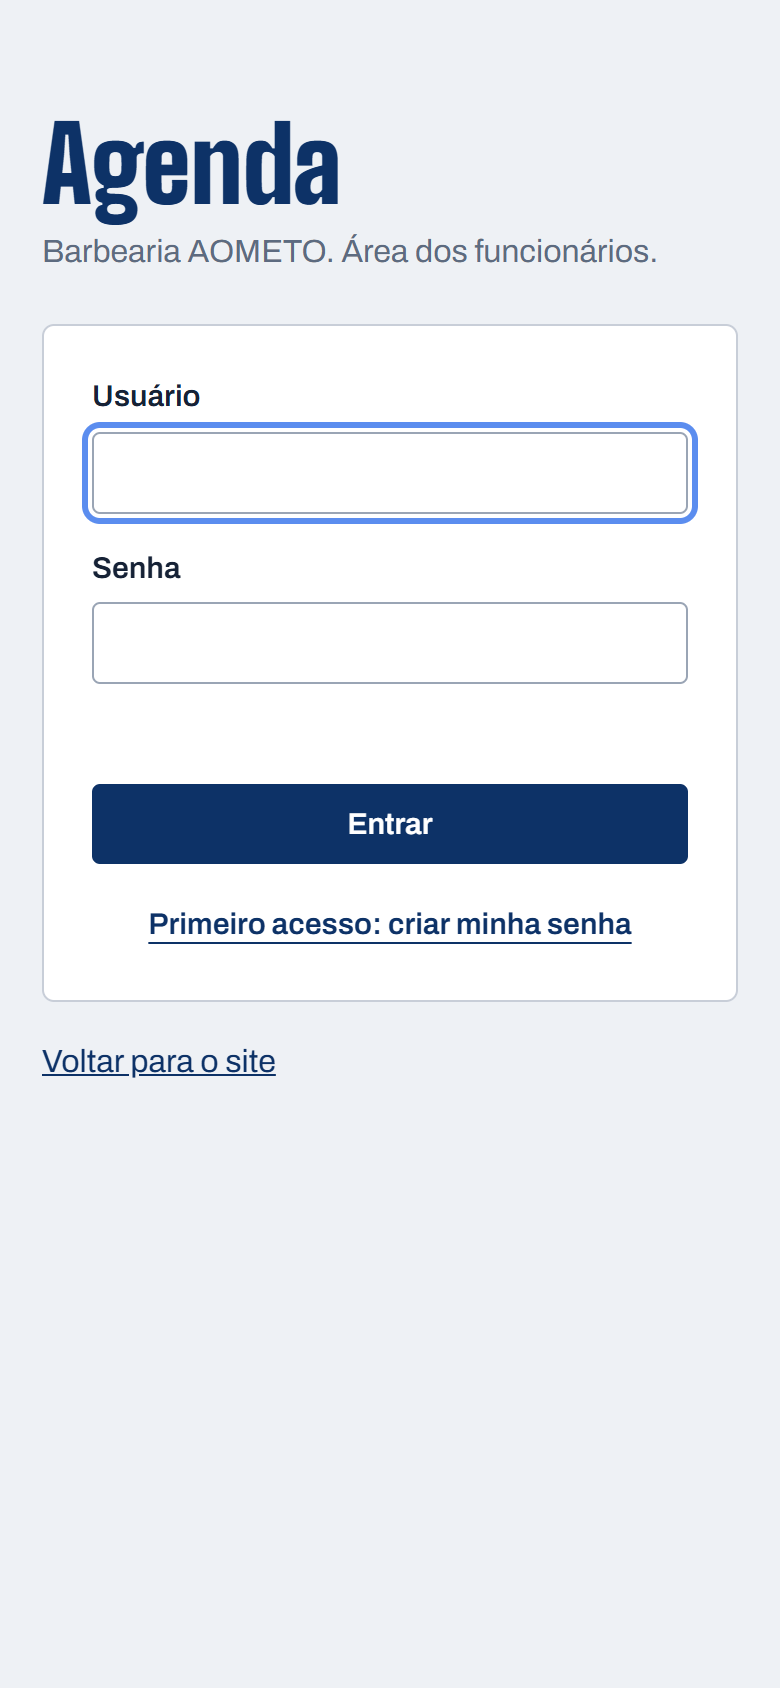
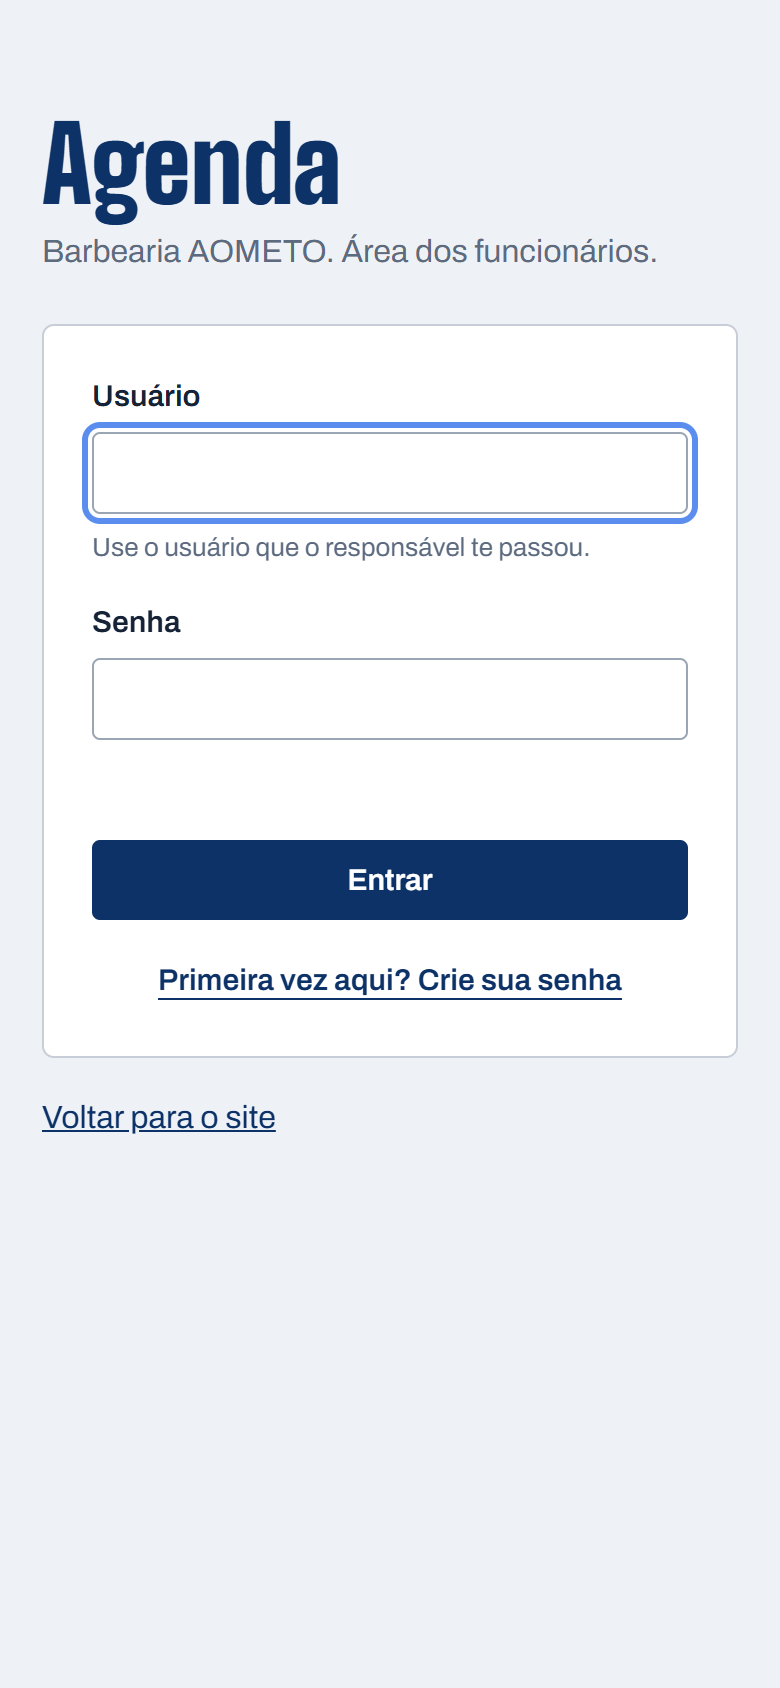
Textos mais claros no site e no painel (revisão de clareza)
Claude-Session: https://claude.ai/code/session_01786Bh4xpB8iKPeZztnvgCn

diff --git a/index.html b/index.html
@@ -4,7 +4,7 @@
 <meta charset="utf-8">
 <meta name="viewport" content="width=device-width, initial-scale=1">
 <title>Barbearia AOMETO | Clube dos Oficiais, Palmas</title>
-<meta name="description" content="Barbearia do clube da AOMETO, em Palmas. Corte, barba e plano mensal. Marque seu horário pelo WhatsApp.">
+<meta name="description" content="Barbearia do clube da AOMETO, em Palmas. Corte, barba e plano mensal. Marque seu horário pelo site.">
 <meta name="theme-color" content="#0d3267">
 <link rel="preconnect" href="https://fonts.googleapis.com">
 <link rel="preconnect" href="https://fonts.gstatic.com" crossorigin>
@@ -227,16 +227,18 @@ footer a{color:#fff}
       <form id="form" novalidate>
         <label>Seu nome<input id="nome" autocomplete="name" placeholder="Como devemos te chamar"></label>
         <label>Seu WhatsApp<input id="telefone" type="tel" inputmode="tel" autocomplete="tel" placeholder="(63) 99999-9999"></label>
+        <p class="alerta" id="erro-dados" role="alert"></p>
         <label>Serviço<select id="servico"></select></label>
         <label>Barbeiro<select id="barbeiro"></select></label>
         <label>Dia<input type="date" id="dia"></label>
         <div>
-          <p class="rotulo">Horário <small>os riscados já estão ocupados</small></p>
+          <p class="rotulo">Horário <small>riscado = ocupado ou já passou</small></p>
           <div class="horas" id="horas" role="group" aria-label="Horários livres"></div>
           <input type="hidden" id="hora">
+          <p class="alerta" id="aviso-dia" role="alert" style="margin-top:8px"></p>
         </div>
         <label>Observação <small>opcional</small><textarea id="obs" rows="2" placeholder="Por exemplo: degradê baixo, barba só alinhar"></textarea></label>
-        <p class="alerta" id="aviso-dia" role="alert"></p>
+        <p class="alerta" id="aviso-envio" role="alert"></p>
         <button class="botao botao-escuro" type="submit" id="reservar">Reservar horário</button>
       </form>
       <div class="feito" id="feito" role="status" tabindex="-1" hidden></div>
@@ -295,8 +297,8 @@ const CONFIG = {
     {nome: "Pezinho", desc: "Contorno e nuca entre um corte e outro.", preco: 10, min: 15},
     {nome: "Sobrancelha", desc: "Alinhamento na navalha.", preco: 10, min: 10}
   ],
-  plano: {valor: 100, beneficios: ["Cortes de cabelo ilimitados no mês", "Vale só para o corte de cabelo; barba e outros serviços são à parte", "Prioridade na agenda", "Pagamento mensal por Pix, sem fidelidade"],
-          obs: "Corte de cabelo à vontade durante o mês. É só marcar o horário."},
+  plano: {valor: 100, beneficios: ["Cortes de cabelo ilimitados no mês", "Pagamento mensal por Pix", "Sem fidelidade"],
+          obs: "Só o corte de cabelo. Barba e outros serviços são cobrados à parte."},
   horarios: {Segunda: ["09:00","19:00"], "Terça": ["09:00","19:00"], Quarta: ["09:00","19:00"], Quinta: ["09:00","19:00"],
              Sexta: ["09:00","19:00"], "Sábado": ["08:00","17:00"], Domingo: null},
   horarioObs: "Em feriados o horário pode mudar. Na dúvida, chame no WhatsApp antes de ir."
@@ -346,7 +348,7 @@ async function rpc(nome, dados) {
   if (!r.ok) throw new Error("rede " + r.status);
   return r.json();
 }
-$("#servico").innerHTML = CONFIG.servicos.map(s => `<option>${s.nome}</option>`).join("") + "<option>Plano mensal</option>";
+$("#servico").innerHTML = CONFIG.servicos.map(s => `<option>${s.nome}</option>`).join("") + "<option>Corte (sou do plano mensal)</option>";
 $("#barbeiro").innerHTML = "<option>Qualquer um</option>" + CONFIG.equipe.map(n => `<option>${n}</option>`).join("");
 const dia = $("#dia"), hora = $("#hora"), aviso = $("#aviso-dia");
 const iso = d => `${d.getFullYear()}-${pad(d.getMonth() + 1)}-${pad(d.getDate())}`;
@@ -357,10 +359,11 @@ async function montarHoras() {
   const box = $("#horas"), n = ++rodada; box.innerHTML = ""; aviso.textContent = ""; hora.value = "";
   if (!dia.value) { box.innerHTML = '<span class="vazio">Escolha o dia para ver os horários livres.</span>'; return; }
   const d = new Date(dia.value + "T12:00"), h = CONFIG.horarios[DIAS[d.getDay()]];
-  if (!h) { aviso.textContent = "A barbearia não abre " + DIAS[d.getDay()].toLowerCase() + ". Escolha outro dia."; return; }
+  if (!h) { aviso.textContent = "Fechado aos " + DIAS[d.getDay()].toLowerCase() + "s. Escolha outro dia."; return; }
   box.innerHTML = '<span class="vazio">Procurando horários livres...</span>';
   let ocupados = [];
-  try { ocupados = await rpc("barbearia_ocupados", {p_dia: dia.value}); } catch (e) { ocupados = []; }
+  let falhou = false;
+  try { ocupados = await rpc("barbearia_ocupados", {p_dia: dia.value}); } catch (e) { ocupados = []; falhou = true; }
   if (n !== rodada) return;
   box.innerHTML = "";
   const escolhido = $("#barbeiro").value, agora = new Date();
@@ -375,7 +378,8 @@ async function montarHoras() {
     b.onclick = () => { hora.value = hh; [...box.children].forEach(c => c.setAttribute("aria-pressed", c === b)); aviso.textContent = ""; };
     box.appendChild(b);
   }
-  if (!livres) aviso.textContent = "Não há horário livre nesse dia. Escolha outro dia" + (escolhido === "Qualquer um" ? "." : " ou outro barbeiro.");
+  if (falhou) aviso.textContent = "Não conseguimos ver os horários ocupados agora. Tente de novo em instantes ou chame no WhatsApp.";
+  else if (!livres) aviso.textContent = "Não há horário livre nesse dia. Escolha outro dia" + (escolhido === "Qualquer um" ? "." : " ou outro barbeiro.");
 }
 dia.addEventListener("change", montarHoras); $("#barbeiro").addEventListener("change", montarHoras); montarHoras();
 
@@ -389,13 +393,14 @@ const ERROS = {
 };
 $("#form").addEventListener("submit", async e => {
   e.preventDefault();
-  const nome = $("#nome").value.trim(), tel = $("#telefone").value.replace(/\D/g, "");
-  if (nome.length < 2) { aviso.textContent = ERROS.nome; $("#nome").focus(); return; }
-  if (tel.length < 10 || tel.length > 13) { aviso.textContent = ERROS.telefone; $("#telefone").focus(); return; }
+  const nome = $("#nome").value.trim(), tel = $("#telefone").value.replace(/\D/g, ""), erroDados = $("#erro-dados"), envio = $("#aviso-envio");
+  erroDados.textContent = ""; envio.textContent = "";
+  if (nome.length < 2) { erroDados.textContent = ERROS.nome; $("#nome").focus(); return; }
+  if (tel.length < 10 || tel.length > 13) { erroDados.textContent = ERROS.telefone; $("#telefone").focus(); return; }
   if (!dia.value) { aviso.textContent = "Escolha o dia."; dia.focus(); return; }
   const d = new Date(dia.value + "T12:00");
-  if (!CONFIG.horarios[DIAS[d.getDay()]]) { aviso.textContent = "A barbearia não abre nesse dia. Escolha outro."; return; }
-  if (!hora.value) { aviso.textContent = "Escolha um dos horários livres."; return; }
+  if (!CONFIG.horarios[DIAS[d.getDay()]]) { aviso.textContent = "Fechado aos " + DIAS[d.getDay()].toLowerCase() + "s. Escolha outro dia."; dia.focus(); return; }
+  if (!hora.value) { aviso.textContent = "Escolha um dos horários livres."; $("#horas").scrollIntoView({block: "center"}); return; }
   const botao = $("#reservar"); botao.disabled = true; botao.textContent = "Reservando..."; aviso.textContent = "";
   let r;
   try {
@@ -404,8 +409,10 @@ $("#form").addEventListener("submit", async e => {
   } catch (err) { r = {ok: false, erro: "rede"}; }
   botao.disabled = false; botao.textContent = "Reservar horário";
   if (!r.ok && r.erro !== "rede") {
-    aviso.textContent = ERROS[r.erro] || "Não foi possível reservar. Tente de novo.";
-    if (r.erro === "ocupado" || r.erro === "horario") montarHoras();
+    const m = ERROS[r.erro] || "Não foi possível reservar. Tente de novo.";
+    if (r.erro === "nome" || r.erro === "telefone") erroDados.textContent = m;
+    else if (r.erro === "ocupado" || r.erro === "horario") { await montarHoras(); aviso.textContent = m; }
+    else envio.textContent = m;
     return;
   }
   const quando = `${DIAS[d.getDay()].toLowerCase()}, ${pad(d.getDate())}/${pad(d.getMonth() + 1)}, às ${hora.value}`;
@@ -415,10 +422,10 @@ $("#form").addEventListener("submit", async e => {
   if ($("#obs").value.trim()) msg.push("Observação: " + $("#obs").value.trim());
   const box = $("#feito");
   box.innerHTML = (r.ok
-    ? `<h3>Horário reservado</h3><p>${esc(nome)}, seu horário ficou para <b>${quando}</b>, com ${esc(barb)}. Ele já está na agenda da barbearia.</p>
-       <p>Se precisar desmarcar ou mudar, avise pelo WhatsApp.</p>`
+    ? `<h3>Horário reservado</h3><p>Pronto, ${esc(nome)}. Seu horário está guardado: <b>${quando}</b>, com ${esc(barb)}.</p>
+       <p>Não precisa fazer mais nada. O barbeiro pode te chamar no WhatsApp para confirmar. Se precisar desmarcar ou mudar, avise por lá.</p>`
     : `<h3>Não deu para reservar pelo site</h3><p>A conexão falhou. Mande o pedido pelo WhatsApp e o barbeiro marca para você.</p>`)
-    + `<a class="botao botao-zap" id="enviar-zap" target="_blank" rel="noopener" href="${zap(msg.join("\n"))}">${r.ok ? "Avisar no WhatsApp" : "Mandar pedido no WhatsApp"}</a>
+    + `<a class="botao botao-zap" id="enviar-zap" target="_blank" rel="noopener" href="${zap(msg.join("\n"))}">${r.ok ? "Avisar no WhatsApp (opcional)" : "Mandar pedido no WhatsApp"}</a>
        <button type="button" class="link" id="outro">Marcar outro horário</button>`;
   $("#form").hidden = true; box.hidden = false; box.focus({preventScroll: true}); box.scrollIntoView({block: "start"});
   $("#outro").onclick = () => { box.hidden = true; $("#form").hidden = false; montarHoras(); dia.focus(); };

diff --git a/painel.html b/painel.html
@@ -82,14 +82,15 @@ dialog h2{font-size:30px}
   <h1>Agenda</h1>
   <p class="sub">Barbearia AOMETO. Área dos funcionários.</p>
   <form class="cartao" id="form-entrar">
-    <label>Usuário<input id="usuario" autocomplete="username" autocapitalize="none" spellcheck="false"></label>
+    <label>Usuário<input id="usuario" autocomplete="username" autocapitalize="none" spellcheck="false" aria-describedby="dica-usuario"></label>
+    <p class="legenda" id="dica-usuario" style="margin-top:-8px">Use o usuário que o responsável te passou.</p>
     <label>Senha<input id="senha" type="password" autocomplete="current-password"></label>
     <p class="alerta" id="erro-entrar" role="alert"></p>
     <button class="botao" type="submit" id="entrar">Entrar</button>
-    <button class="link" type="button" id="ir-primeiro">Primeiro acesso: criar minha senha</button>
+    <button class="link" type="button" id="ir-primeiro">Primeira vez aqui? Crie sua senha</button>
   </form>
   <form class="cartao" id="form-primeiro" hidden>
-    <p>Crie a sua senha. Isso só funciona uma vez, no primeiro acesso.</p>
+    <p>Faça isso só uma vez. Use o usuário que você recebeu e crie uma senha com pelo menos 6 letras ou números. Depois, entre sempre pela tela anterior.</p>
     <label>Usuário<input id="p-usuario" autocomplete="username" autocapitalize="none" spellcheck="false"></label>
     <label>Nova senha <input id="p-senha" type="password" autocomplete="new-password" minlength="6"></label>
     <label>Repita a senha<input id="p-senha2" type="password" autocomplete="new-password"></label>
@@ -116,12 +117,13 @@ dialog h2{font-size:30px}
       <button class="passo" type="button" id="depois" aria-label="Próximo dia">›</button>
       <button class="link" type="button" id="hoje">Hoje</button>
     </div>
+    <p class="legenda" style="margin:4px 0 2px">Próximos dias (clientes marcados)</p>
     <nav class="semana" id="semana" aria-label="Próximos dias"></nav>
     <div class="filtros">
       <label>Barbeiro<select id="filtro"></select></label>
     </div>
     <section class="resumo" id="resumo" aria-live="polite"></section>
-    <p class="legenda">Cor da faixa: amarela é pedido novo, azul é confirmado, verde é feito, cinza é cancelado ou faltou.</p>
+    <p class="legenda">Faixa amarela = novo. Chame o cliente no WhatsApp e mude a situação para Confirmado (azul). Depois do corte, mude para Feito (verde). Cinza = cancelado ou faltou.</p>
     <section class="lista" id="lista"></section>
   </main>
 </div>
@@ -140,8 +142,8 @@ dialog h2{font-size:30px}
 <script>
 const AGENDA = {url: "https://uabpevnjfcwidbjscowq.supabase.co", chave: "sb_publishable_SHH7EV0MT5grOTdCFM-V-w_FqPrtzPh"};
 const EQUIPE = ["Funcionário X", "Funcionário Y"];
-const PRECOS = {"Corte": 30, "Barba": 25, "Corte e barba": 50, "Pezinho": 10, "Sobrancelha": 10, "Plano mensal": 0};
-const SITUACOES = [["pendente", "Novo, a confirmar"], ["confirmado", "Confirmado"], ["feito", "Feito"], ["faltou", "Cliente faltou"], ["cancelado", "Cancelado"]];
+const PRECOS = {"Corte": 30, "Barba": 25, "Corte e barba": 50, "Pezinho": 10, "Sobrancelha": 10, "Corte (sou do plano mensal)": 0, "Plano mensal": 0};
+const SITUACOES = [["pendente", "Novo"], ["confirmado", "Confirmado"], ["feito", "Feito"], ["faltou", "Cliente faltou"], ["cancelado", "Cancelado"]];
 const DIAS = ["domingo", "segunda", "terça", "quarta", "quinta", "sexta", "sábado"];
 
 const $ = s => document.querySelector(s);
@@ -242,21 +244,23 @@ function desenhar() {
   const novos = doDia.filter(i => i.status === "pendente");
   const valor = feitos.reduce((t, i) => t + (PRECOS[i.servico] || 0), 0);
   const pl = (n, um, varios) => `<div><b>${n}</b>${n === 1 ? um : varios}</div>`;
-  $("#resumo").innerHTML = pl(marcados.length, "marcado", "marcados") + pl(novos.length, "a confirmar", "a confirmar") +
-    pl(feitos.length, "feito", "feitos") + `<div><b>R$ ${valor}</b>recebido nos feitos</div>`;
+  $("#resumo").innerHTML = pl(marcados.length, "marcado", "marcados") + pl(novos.length, "novo", "novos") +
+    pl(feitos.length, "feito", "feitos") + `<div><b>R$ ${valor}</b>em serviços feitos (pela tabela)</div>`;
   if (!doDia.length) { $("#lista").innerHTML = '<p class="vazio">Nenhum horário marcado nesse dia.</p>'; return; }
   $("#lista").innerHTML = doDia.map(i => {
     const opc = SITUACOES.map(([v, t]) => `<option value="${v}"${v === i.status ? " selected" : ""}>${t}</option>`).join("");
     const tel = i.telefone.length <= 11 ? "55" + i.telefone : i.telefone;
     const d = dataDe(i.dia);
-    const texto = `Olá, ${i.nome}! Aqui é da Barbearia AOMETO. Confirmando seu horário: ${DIAS[d.getDay()]}, ${pad(d.getDate())}/${pad(d.getMonth() + 1)}, às ${i.hora}, com ${i.barbeiro}.`;
+    const novo = i.status === "pendente";
+    const texto = novo ? `Olá, ${i.nome}! Aqui é da Barbearia AOMETO. Confirmando seu horário: ${DIAS[d.getDay()]}, ${pad(d.getDate())}/${pad(d.getMonth() + 1)}, às ${i.hora}, com ${i.barbeiro}.`
+                       : `Olá, ${i.nome}! Aqui é da Barbearia AOMETO.`;
     return `<article class="horario ${i.status}" data-id="${i.id}">
       <div class="h">${i.hora}</div>
       <div><div class="quem">${esc(i.nome)}</div><div class="det">${esc(i.servico)}, com ${esc(i.barbeiro)}</div>
         ${i.obs ? `<div class="obs">Obs.: ${esc(i.obs)}</div>` : ""}</div>
-      <div class="lado"><label class="sr" style="font-weight:400"><span style="position:absolute;left:-9999px">Situação</span>
+      <div class="lado"><label style="font-size:13px;gap:2px">Situação
         <select class="situacao" aria-label="Situação de ${esc(i.nome)} às ${i.hora}">${opc}</select></label>
-        <a class="zap" target="_blank" rel="noopener" href="https://wa.me/${tel}?text=${encodeURIComponent(texto)}">Chamar no WhatsApp</a></div>
+        <a class="zap" target="_blank" rel="noopener" href="https://wa.me/${tel}?text=${encodeURIComponent(texto)}">${novo ? "Confirmar pelo WhatsApp" : "Chamar no WhatsApp"}</a></div>
     </article>`;
   }).join("");
 }
@@ -266,7 +270,7 @@ $("#lista").addEventListener("change", async e => {
   const card = sel.closest(".horario"), id = card.dataset.id, item = itensSemana.find(i => i.id === id), antes = item.status;
   sel.disabled = true;
   let r; try { r = await rpc("barbearia_mudar_status", {p_token: token, p_id: id, p_status: sel.value}); } catch (err) { r = {ok: false, erro: "rede"}; }
-  if (r.ok) { item.status = sel.value; desenhar(); return; }
+  if (r.ok) { item.status = sel.value; desenhar(); alertaLista("Salvo.", true); return; }
   sel.value = antes; sel.disabled = false;
   if (r.erro === "sessao") return mostrarEntrada("Sua sessão acabou. Entre de novo.");
   alertaLista(r.erro === "ocupado" ? "Esse horário já foi ocupado por outro cliente, por isso não dá para reativar." : FALHA);
